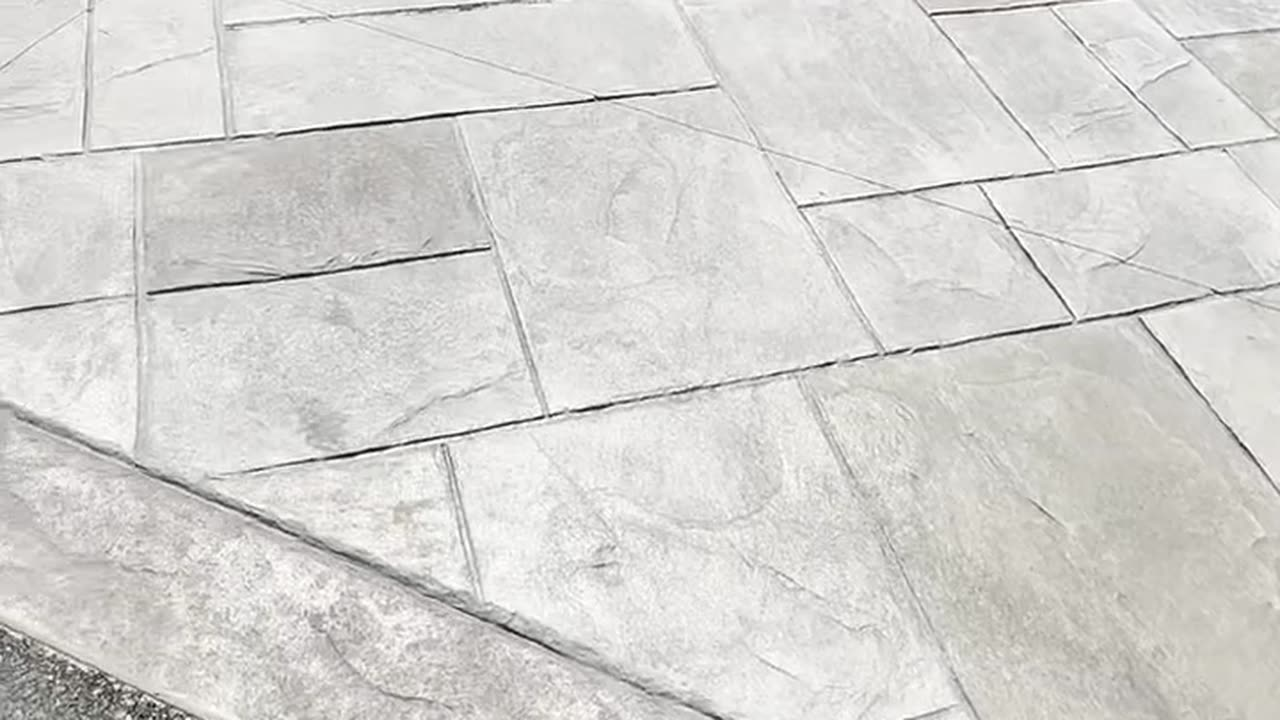
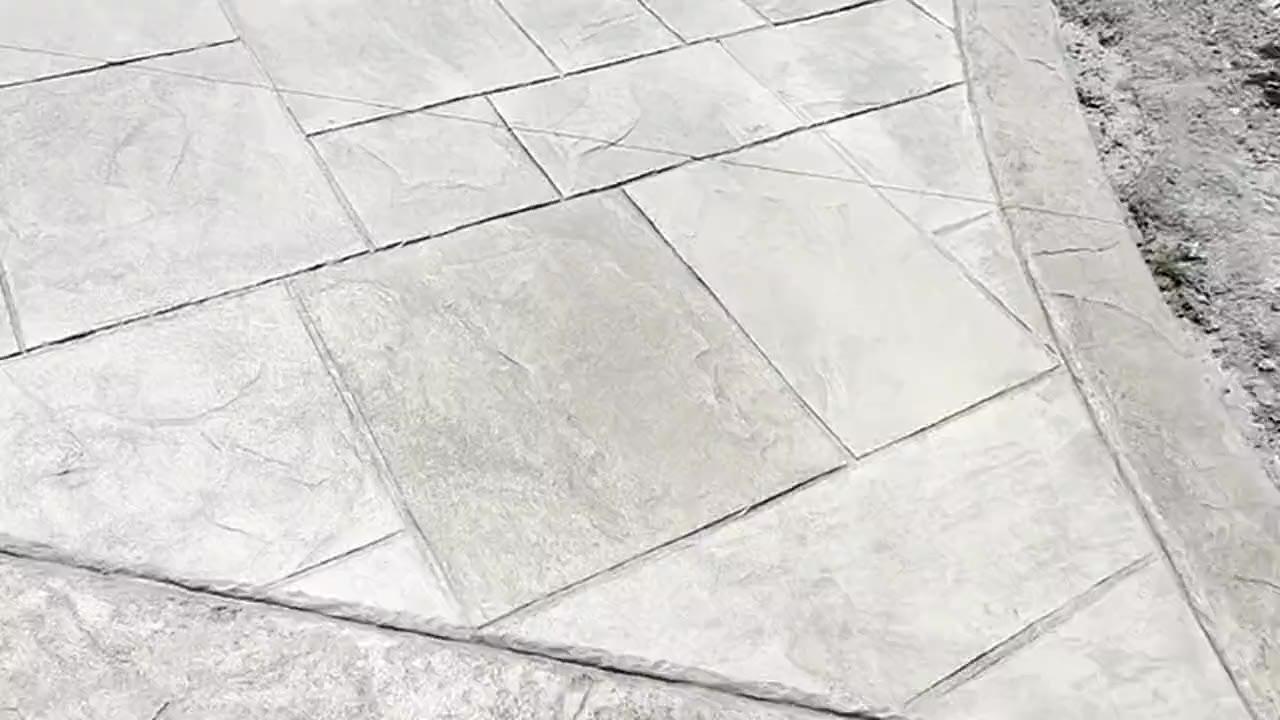
Hero: use the new video's first frame as the still so playback starts seamlessly
Claude-Session: https://claude.ai/code/session_014GXqA6QfpkUZbGsn26RCfy

diff --git a/public/index.html b/public/index.html
@@ -21,8 +21,8 @@
   <link rel="preconnect" href="https://fonts.googleapis.com">
   <link rel="preconnect" href="https://fonts.gstatic.com" crossorigin>
   <link href="https://fonts.googleapis.com/css2?family=Barlow+Condensed:wght@500;600;700;800&family=Fraunces:ital,opsz,wght@1,9..144,500;1,9..144,600&family=Inter:wght@400;500;600;700&display=swap" rel="stylesheet">
-  <link rel="preload" as="image" href="/img/hero-night-walkway.jpg" media="(min-width: 700px)">
-  <link rel="preload" as="image" href="/img/hero-night-walkway-sm.jpg" media="(max-width: 699px)">
+  <link rel="preload" as="image" href="/img/hero-walk-poster.jpg" media="(min-width: 700px)">
+  <link rel="preload" as="image" href="/img/hero-walk-poster-sm.jpg" media="(max-width: 699px)">
   <link rel="stylesheet" href="/css/site.css">
 
   <script type="application/ld+json">
@@ -94,8 +94,8 @@
 <section class="hero">
   <div class="hero-media" id="heroMedia">
     <picture class="hero-bg">
-      <source media="(max-width: 699px)" srcset="/img/hero-night-walkway-sm.jpg">
-      <img src="/img/hero-night-walkway.jpg" alt="Stamped concrete walkway with a contrasting border, lit at night, leading to a stone-columned front porch" width="2048" height="1536" fetchpriority="high">
+      <source media="(max-width: 699px)" srcset="/img/hero-walk-poster-sm.jpg">
+      <img src="/img/hero-walk-poster.jpg" alt="Gray ashlar stamped concrete patio and walkway around a stone-faced home" width="1280" height="720" fetchpriority="high">
     </picture>
     <!-- Hero video reel: list clips in order. "sm" = lighter file for phones.
          Leave the list empty to show the photo only. -->
